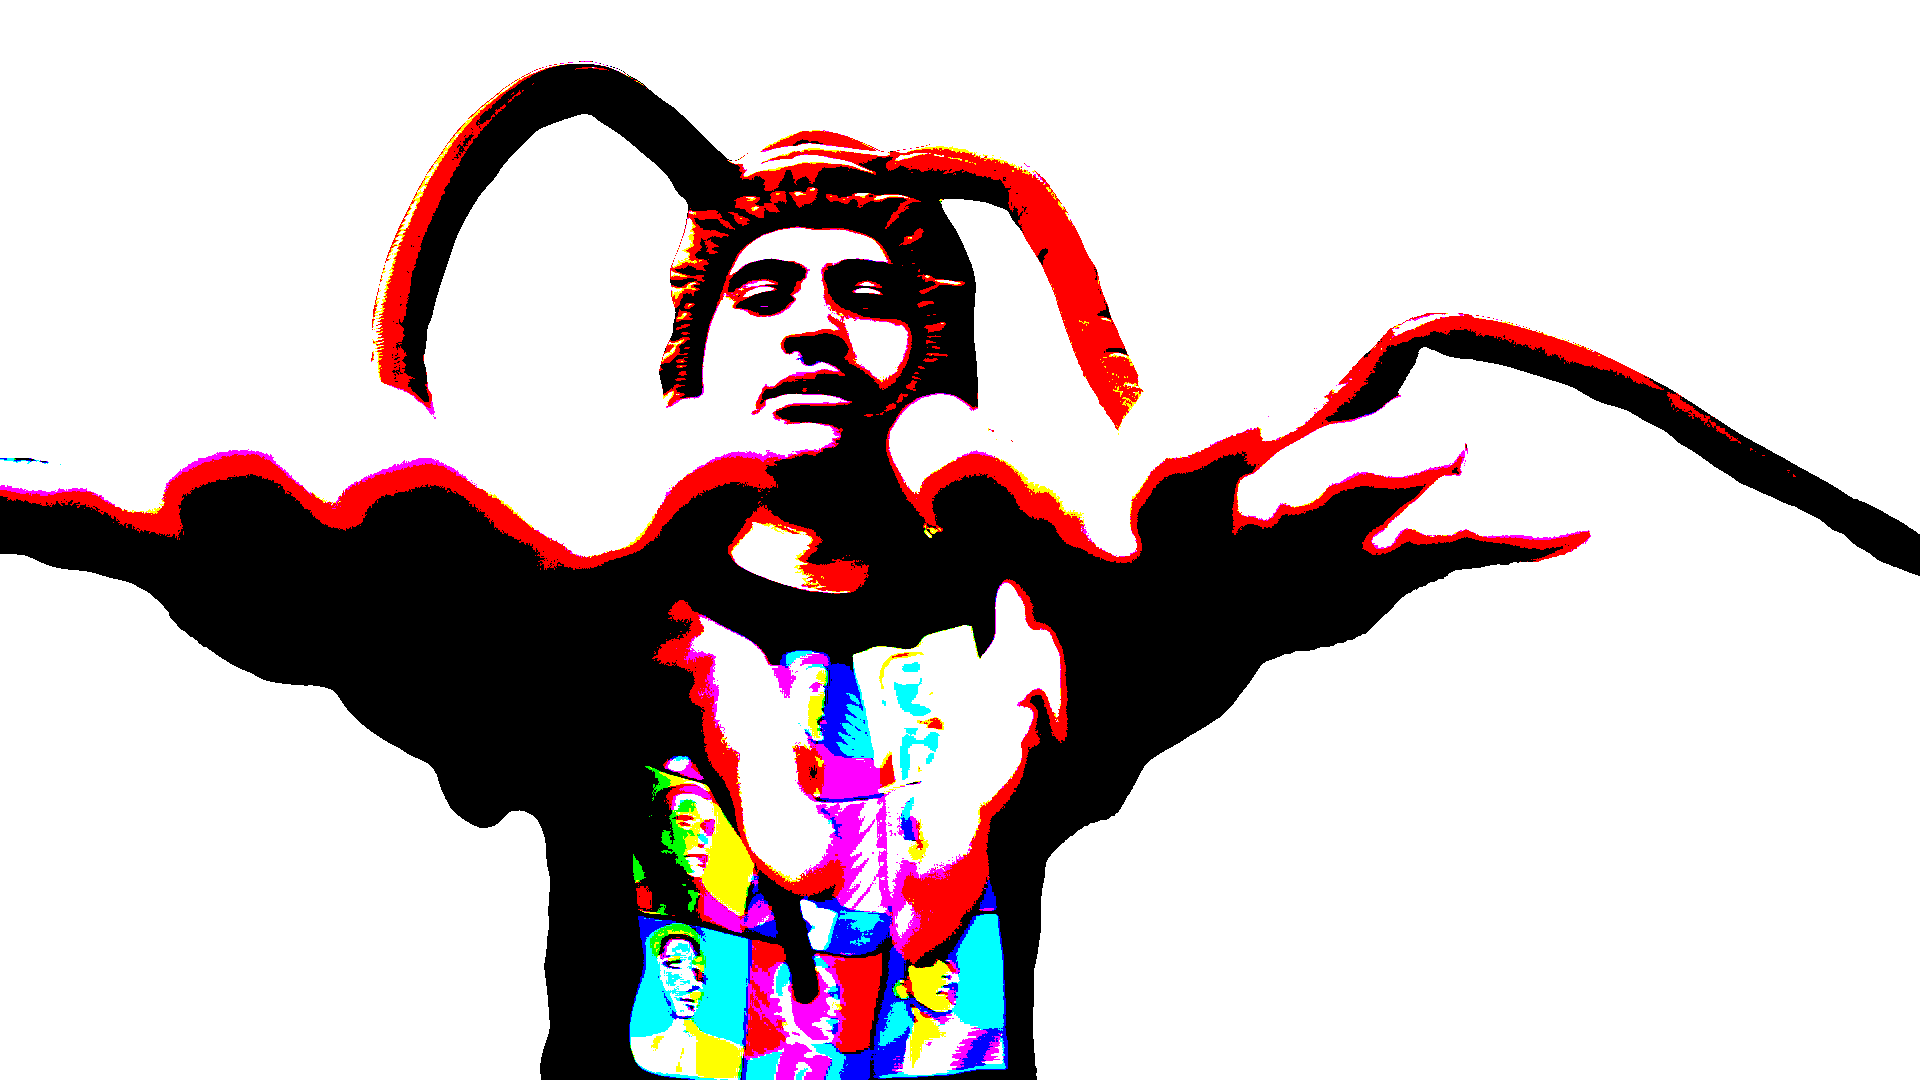
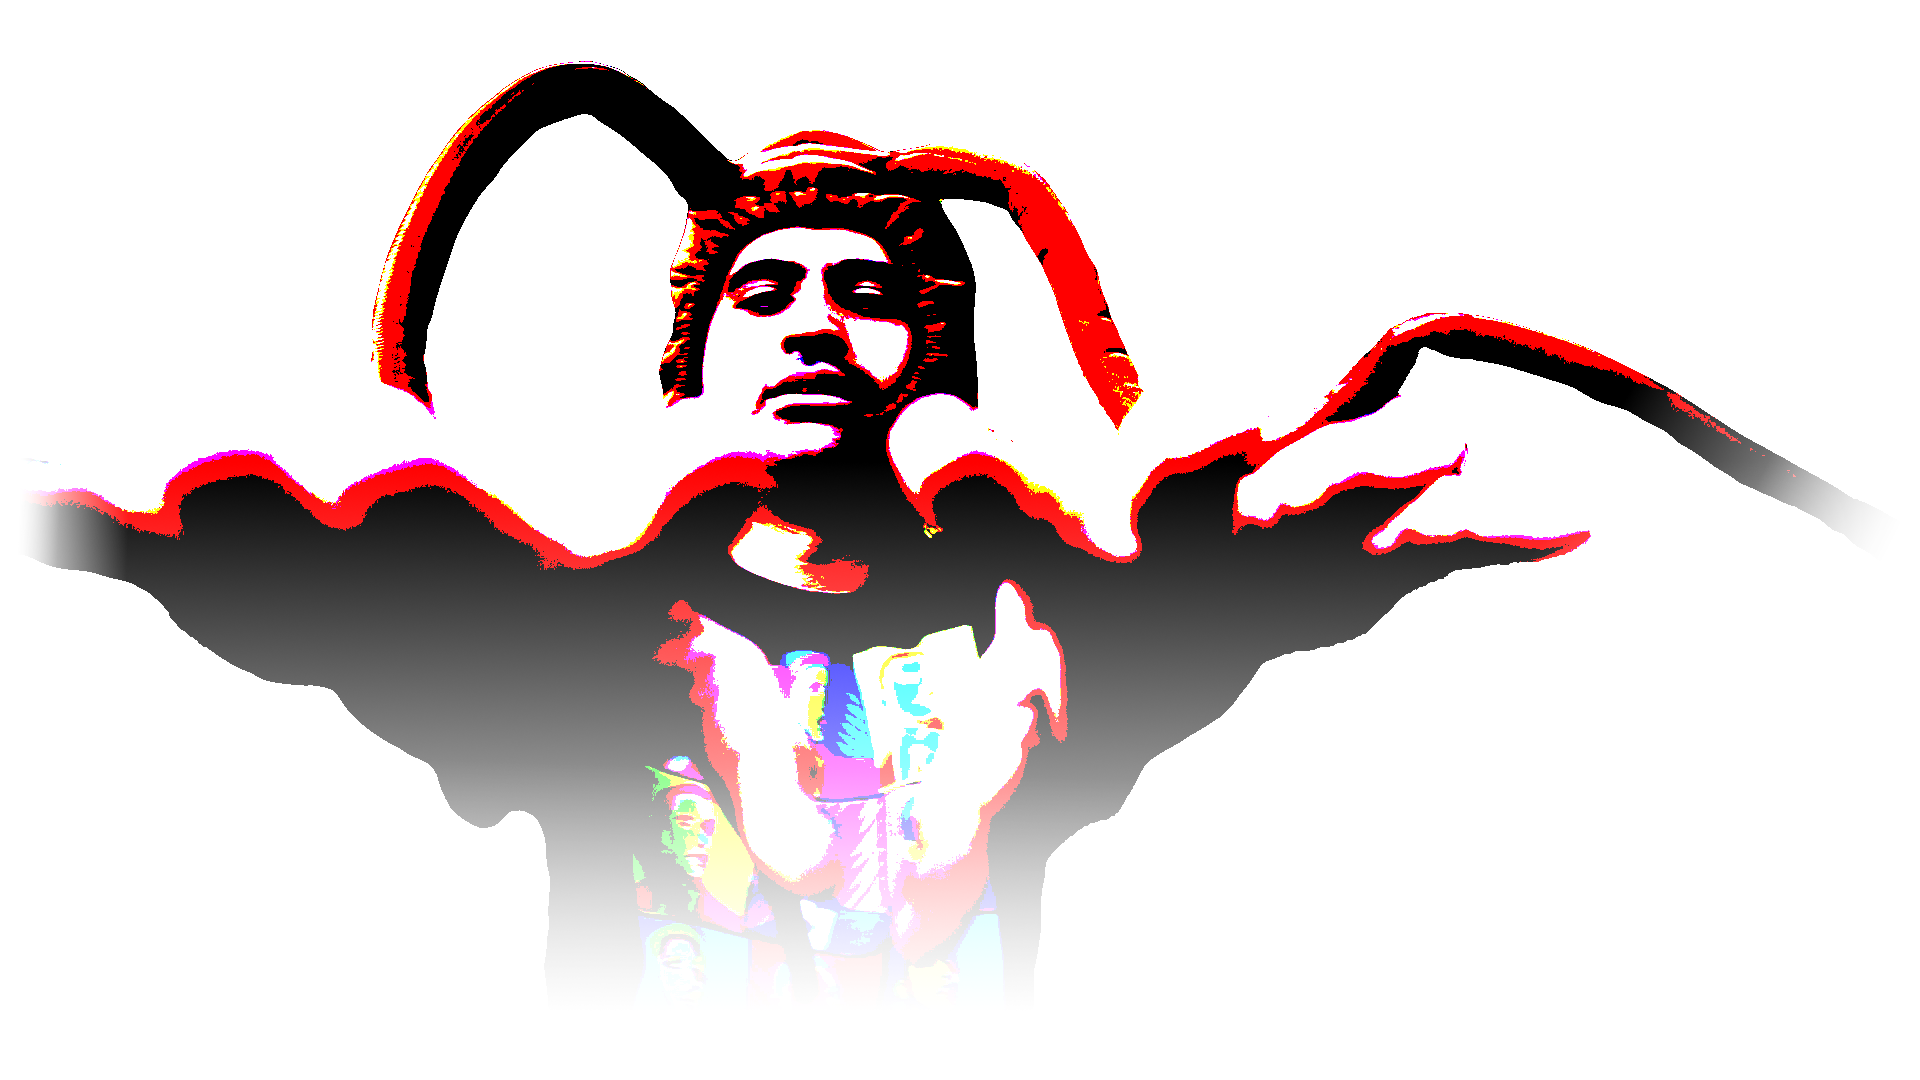
music page elements done

Changed region(s): [[0.0, 0.4278, 0.8438, 1.0], [0.8438, 0.3667, 1.0, 0.55]]

diff --git a/content/music.html b/content/music.html
@@ -5,7 +5,7 @@
     <title>Flipping Cards with Iframe - Bootstrap 4</title>
     <meta name="viewport" content="width=device-width, initial-scale=1">
 
-    <!-- Bootstrap 4 CDN -->
+    <!-- Bootstrap CSS -->
     <link rel="stylesheet" href="https://stackpath.bootstrapcdn.com/bootstrap/4.5.2/css/bootstrap.min.css">
 
     <style>
@@ -25,7 +25,7 @@
         .flip-card::before {
             content: "";
             display: block;
-            padding-top: 100%; /* Forces square aspect ratio */
+            padding-top: 100%;
         }
 
         .flipped {
@@ -79,69 +79,99 @@
         .shadow-sm {
             box-shadow: 0 0.25rem 0.5rem rgba(0, 0, 0, 0.1);
         }
+
+        .card-group {
+            position: relative;
+        }
+
+        .header-image {
+            position: relative;
+            z-index: 1;
+            display: flex;
+            justify-content: center;
+        }
+
+            .header-image img {
+                width: 50%;
+                height: auto;
+                display: block;
+            }
+
+        .card-group-section .container {
+            position: relative;
+            margin-top: -10%;
+            z-index: 2;
+        }
     </style>
 </head>
 <body>
 
-    <div class="container py-5">
-        <div class="row">
+    <div class="card-group-section position-relative my-5">
+        <!-- Background Header Image -->
+        <div class="header-image">
+            <img src="src/music/bugchaser-banner.png" alt="Fumbled A BBW Series Header">
+        </div>
 
-            <!-- Fmbld EP 1 -->
-            <div class="col-md-4">
-                <div class="card-container shadow-sm" onclick="flipCard(this)">
-                    <div class="flip-card">
-                        <div class="flip-card-front">
-                            <img src="src/music/fmbld1.png" alt="The Fumbled a BBW EP PROD. OXXY">
-                        </div>
-                        <div class="flip-card-back">
-                            <iframe scrolling="no" frameborder="no" allow="autoplay" src="https://w.soundcloud.com/player/?url=https%3A//api.soundcloud.com/playlists/1874120342&color=%23ff5500&auto_play=false&hide_related=false&show_comments=true&show_user=true&show_reposts=false&show_teaser=true&visual=true"></iframe>
+        <div class="container py-5">
+            <div class="row">
+
+                <!-- Fmbld EP 1 -->
+                <div class="col-md-4">
+                    <div class="card-container shadow-sm" onclick="flipCard(this)">
+                        <div class="flip-card">
+                            <div class="flip-card-front">
+                                <img src="src/music/fmbld1.png" alt="The Fumbled a BBW EP PROD. OXXY">
+                            </div>
+                            <div class="flip-card-back">
+                                <iframe scrolling="no" frameborder="no" allow="autoplay" src="https://w.soundcloud.com/player/?url=https%3A//api.soundcloud.com/playlists/1874120342&color=%23ff5500&auto_play=false&hide_related=false&show_comments=true&show_user=true&show_reposts=false&show_teaser=true&visual=true"></iframe>
+                            </div>
                         </div>
                     </div>
                 </div>
-            </div>
 
-            <!-- Fmbld EP 2 -->
-            <div class="col-md-4">
-                <div class="card-container shadow-sm" onclick="flipCard(this)">
-                    <div class="flip-card">
-                        <div class="flip-card-front">
-                            <img src="src/music/fmbld2.png" alt="Fumbled a BBW EP 2: Songs for Lovers & Shooters Alike">
-                        </div>
-                        <div class="flip-card-back">
-                            <iframe scrolling="no" frameborder="no" allow="autoplay" src="https://w.soundcloud.com/player/?url=https%3A//api.soundcloud.com/playlists/2005433848&color=%23ff5500&auto_play=false&hide_related=false&show_comments=true&show_user=true&show_reposts=false&show_teaser=true&visual=true"></iframe>
+                <!-- Fmbld EP 2 -->
+                <div class="col-md-4">
+                    <div class="card-container shadow-sm" onclick="flipCard(this)">
+                        <div class="flip-card">
+                            <div class="flip-card-front">
+                                <img src="src/music/fmbld2.png" alt="Fumbled a BBW EP 2: Songs for Lovers & Shooters Alike">
+                            </div>
+                            <div class="flip-card-back">
+                                <iframe scrolling="no" frameborder="no" allow="autoplay" src="https://w.soundcloud.com/player/?url=https%3A//api.soundcloud.com/playlists/2005433848&color=%23ff5500&auto_play=false&hide_related=false&show_comments=true&show_user=true&show_reposts=false&show_teaser=true&visual=true"></iframe>
+                            </div>
                         </div>
                     </div>
                 </div>
-            </div>
 
-            <!-- Fmbld Track a Week -->
-            <div class="col-md-4">
-                <div class="card-container shadow-sm" onclick="flipCard(this)">
-                    <div class="flip-card">
-                        <div class="flip-card-front">
-                            <img src="src/music/fmbld3.png" alt="Track a Week 2025">
-                        </div>
-                        <div class="flip-card-back">
-                            <iframe width="560" height="315" src="https://www.youtube.com/embed/videoseries?si=3EvUkfpP9mDAtJF5&amp;list=PLV3HwjMvRGG4__fw_uwhVABGGVvmTwUNs" title="YouTube video player" frameborder="0" allow="accelerometer; autoplay; clipboard-write; encrypted-media; gyroscope; picture-in-picture; web-share" referrerpolicy="strict-origin-when-cross-origin" allowfullscreen></iframe>
+                <!-- Fmbld Track a Week -->
+                <div class="col-md-4">
+                    <div class="card-container shadow-sm" onclick="flipCard(this)">
+                        <div class="flip-card">
+                            <div class="flip-card-front">
+                                <img src="src/music/fmbld3.png" alt="Track a Week 2025">
+                            </div>
+                            <div class="flip-card-back">
+                                <iframe width="560" height="315" src="https://www.youtube.com/embed/videoseries?si=3EvUkfpP9mDAtJF5&amp;list=PLV3HwjMvRGG4__fw_uwhVABGGVvmTwUNs" title="YouTube video player" frameborder="0" allow="accelerometer; autoplay; clipboard-write; encrypted-media; gyroscope; picture-in-picture; web-share" referrerpolicy="strict-origin-when-cross-origin" allowfullscreen></iframe>
+                            </div>
                         </div>
                     </div>
                 </div>
-            </div>
 
+            </div>
         </div>
     </div>
 
-    <script>
-        function flipCard(clickedContainer) {
-            // Reset all cards
-            document.querySelectorAll('.flip-card').forEach(card => {
-                card.classList.remove('flipped');
-            });
+        <script>
+            function flipCard(clickedContainer) {
+                // Reset all cards
+                document.querySelectorAll('.flip-card').forEach(card => {
+                    card.classList.remove('flipped');
+                });
 
-            // Flip the clicked card
-            const flip = clickedContainer.querySelector('.flip-card');
-            flip.classList.add('flipped');
-        }
-    </script>
+                // Flip the clicked card
+                const flip = clickedContainer.querySelector('.flip-card');
+                flip.classList.add('flipped');
+            }
+        </script>
 </body>
 </html>

diff --git a/index.html b/index.html
@@ -3,7 +3,7 @@
 <head>
     <meta charset="UTF-8">
     <meta name="viewport" content="width=device-width, initial-scale=1.0">
-    <title>Bootstrap 4 Vertical Navbar</title>
+    <title>WORK IN PROGRESS</title>
     <link rel="stylesheet" href="css/stylesheet.css">
     <!-- Bootstrap CSS -->
     <link href="https://stackpath.bootstrapcdn.com/bootstrap/4.5.2/css/bootstrap.min.css" rel="stylesheet">
